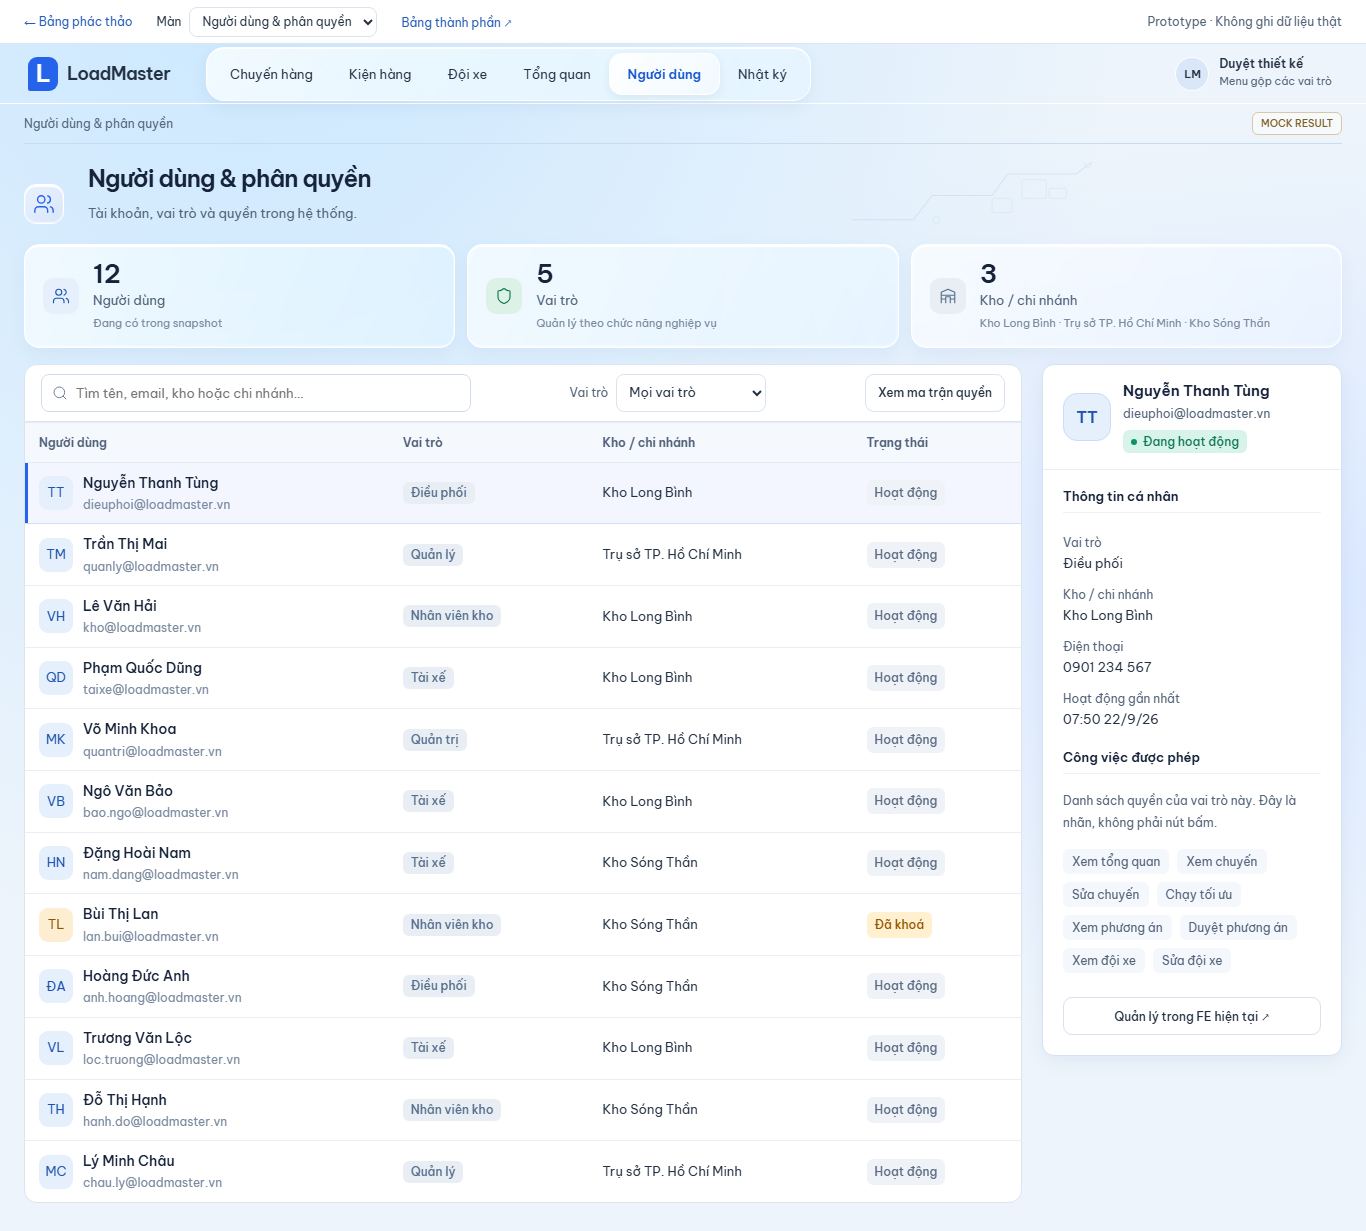
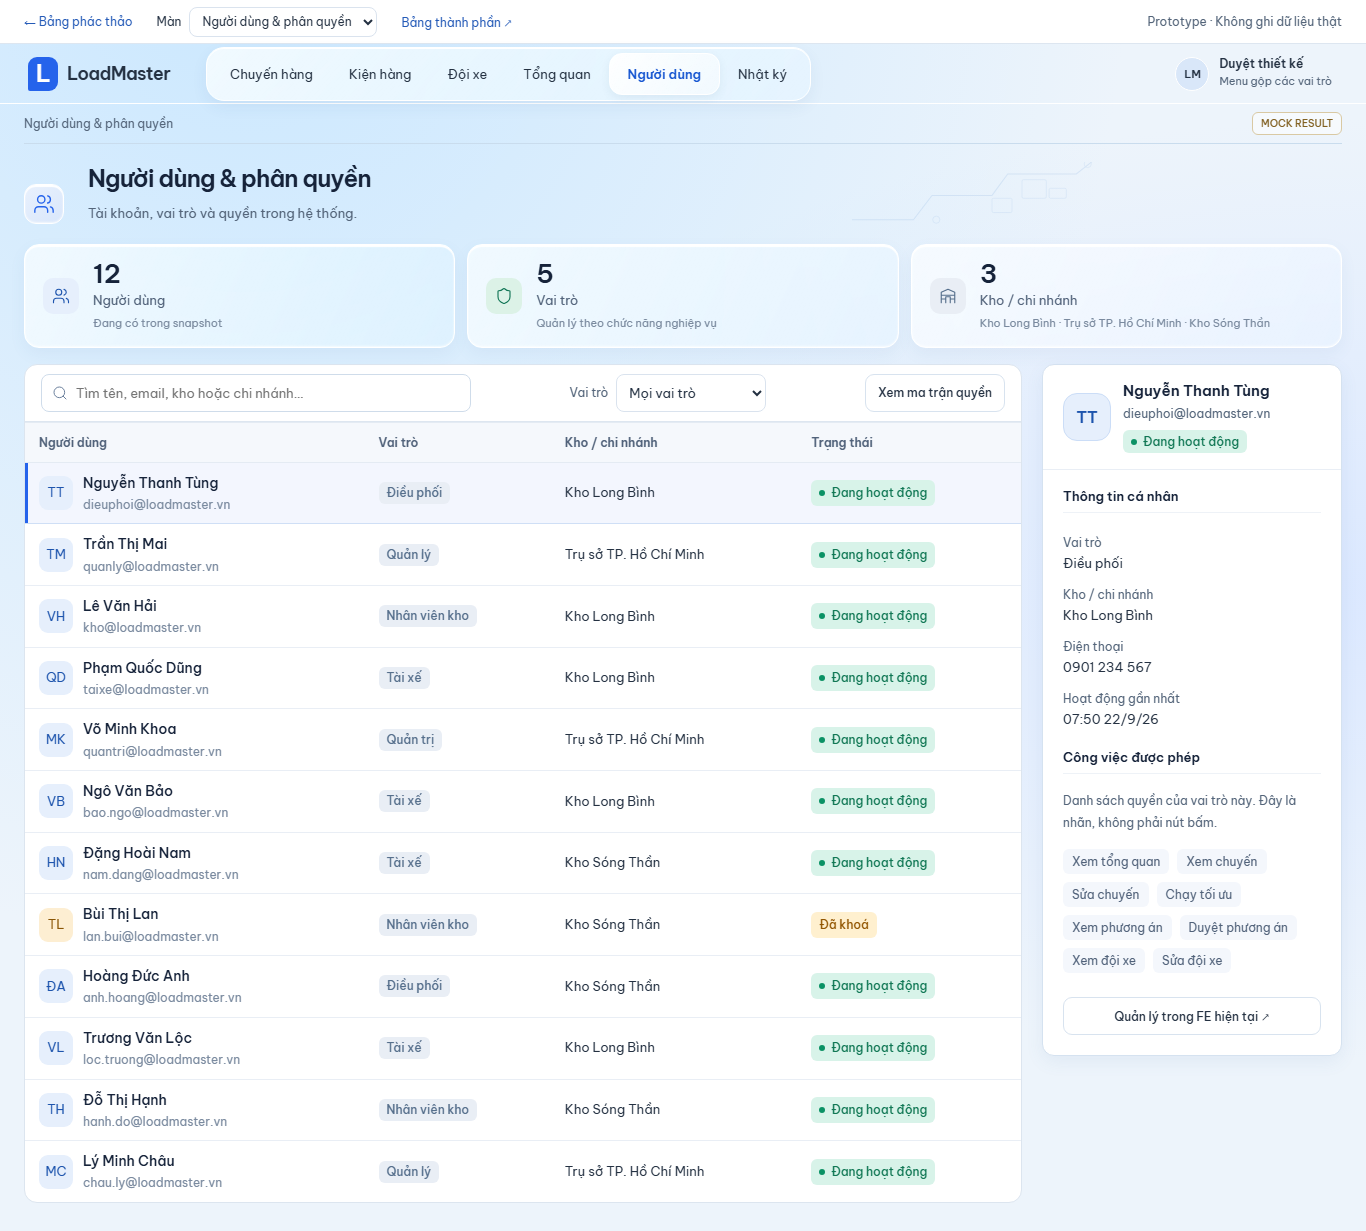
design(v2): một nguồn duy nhất cho trạng thái tài khoản
Bảng người dùng ghi "Hoạt động" tông neutral, còn inspector ghi "Đang
hoạt động" tông success — cùng một trạng thái, hai màu và hai cách gọi.
Người đọc phải tự đoán chúng có phải một hay không.

Gom về hàm userStatus dùng cho cả hai chỗ: "Đang hoạt động" tông
success, "Đã khoá" tông warning. Không thêm trạng thái mới, không đổi
nghĩa của tông nào.

verify-desktop, verify-screens và lint pass. Không đụng src/.

diff --git a/design/v2/desktop-admin.js b/design/v2/desktop-admin.js
@@ -5,12 +5,13 @@ const permissions = { 'dashboard.view':'Xem tổng quan','reports.export':'Xuấ
 // Nhóm sự kiện → tông icon. Bốn nhóm, không tô mỗi hành động một màu.
 const actionTone = { trip:['blue','truck'], revision:['violet','review'], optimization:['violet','settings'], loading:['amber','box'], delivery:['green','truck'], vehicle:['amber','wrench'], user:['slate','user'], auth:['slate','user'] };
 const actions = { 'trip.created':'Tạo chuyến','trip.updated':'Sửa chuyến','trip.cancelled':'Huỷ chuyến','optimization.saved':'Lưu kết quả tối ưu','revision.approved':'Duyệt phương án','loading.started':'Bắt đầu xếp hàng','loading.completed':'Xếp xong','loading.missing':'Báo thiếu kiện','delivery.started':'Xuất phát giao hàng','delivery.stopCompleted':'Hoàn tất điểm giao','delivery.completed':'Hoàn thành chuyến','delivery.issue':'Báo sự cố giao hàng','vehicle.maintenanceOn':'Đưa xe vào bảo dưỡng','user.created':'Tạo tài khoản','user.locked':'Khoá tài khoản','auth.signedIn':'Đăng nhập' };
+const userStatus = u => badge(u.status==='active'?'Đang hoạt động':'Đã khoá', u.status==='active'?'success':'warning');
 const initials = name => name.split(' ').slice(-2).map(w => w[0]).join('');
 export function users(){
   let selected=snapshot.users[0];
   $('screen-root').innerHTML=shell('users',metricGrid([{ tone:'blue', icon:'users', value:snapshot.users.length, label:'Người dùng', note:'Đang có trong snapshot' },{ tone:'green', icon:'shield', value:Object.keys(roleNames).length, label:'Vai trò', note:'Quản lý theo chức năng nghiệp vụ' },{ tone:'slate', icon:'fleet', value:new Set(snapshot.users.map(u=>u.depot)).size, label:'Kho / chi nhánh', note:[...new Set(snapshot.users.map(u=>u.depot))].join(' · ') }])+`<div class="workbench"><section class="paper"><div class="list-tools"><label class="search">${icon('search',16)}<input id="user-search" placeholder="Tìm tên, email, kho hoặc chi nhánh…" aria-label="Tìm người dùng"></label><label class="tool-field">Vai trò<select id="user-role" aria-label="Lọc vai trò"><option value="all">Mọi vai trò</option>${Object.entries(roleNames).map(([k,v])=>`<option value="${k}">${v}</option>`).join('')}</select></label><button class="button secondary" id="permissions-open">Xem ma trận quyền</button></div><div id="users-table"></div></section><aside class="editor-paper"><div id="user-inspector"></div></aside></div>${dialog('permissions-dialog','Ma trận quyền theo vai trò',table(['Quyền',...Object.values(roleNames)],snapshot.permissions.map(p=>`<tr><td>${permissions[p]}</td>${Object.keys(roleNames).map(role=>`<td><span aria-label="${snapshot.roles[role].includes(p)?'Có quyền':'Không có quyền'}">${snapshot.roles[role].includes(p)?'✓':'—'}</span></td>`).join('')}</tr>`).join(''))+notice('Phân quyền FE giả lập. Backend phải kiểm lại; prototype chỉ trình bày ma trận, không cấp quyền.'))}`);
-  function inspector(){const u=selected;$('user-inspector').innerHTML=`<div class="inspector-head"><span class="large-avatar">${initials(u.fullName)}</span><div><h2>${u.fullName}</h2><p class="quiet-note">${u.email}</p>${badge(u.status==='active'?'Đang hoạt động':'Đã khoá',u.status==='active'?'success':'warning')}</div></div><h3 class="inspector-section">Thông tin cá nhân</h3><dl class="definition-list"><div><dt>Vai trò</dt><dd>${roleNames[u.role]}</dd></div><div><dt>Kho / chi nhánh</dt><dd>${u.depot}</dd></div><div><dt>Điện thoại</dt><dd>${u.phone}</dd></div><div><dt>Hoạt động gần nhất</dt><dd>${u.lastActiveAt?dateTime(u.lastActiveAt):'Chưa đăng nhập'}</dd></div></dl><h3 class="inspector-section">Công việc được phép</h3><p class="quiet-note">Danh sách quyền của vai trò này. Đây là nhãn, không phải nút bấm.</p><ul class="permission-list">${snapshot.roles[u.role].map(p=>`<li>${permissions[p]}</li>`).join('')}</ul><a class="button secondary" href="/nguoi-dung">Quản lý trong FE hiện tại ↗</a>`;}
-  function render(){const rows=snapshot.users.filter(u=>normalize(u.fullName+' '+u.email+' '+u.depot).includes(normalize($('user-search').value))&&($('user-role').value==='all'||u.role===$('user-role').value));$('users-table').innerHTML=table(['Người dùng','Vai trò','Kho / chi nhánh','Trạng thái'],rows.map(u=>`<tr class="${u.id===selected.id?'selected-row':''}"><td><button class="cell-lead" data-user="${u.id}"><span class="cell-thumb ${u.status==='active'?'blue':'amber'}">${initials(u.fullName)}</span><span class="row-title">${u.fullName}<small>${u.email}</small></span></button></td><td><span class="role-chip">${roleNames[u.role]}</span></td><td>${u.depot}</td><td>${badge(u.status==='active'?'Hoạt động':'Đã khoá',u.status==='active'?'neutral':'warning')}</td></tr>`).join('')||'<tr><td colspan="4" class="empty">Không tìm thấy người dùng.</td></tr>');}
+  function inspector(){const u=selected;$('user-inspector').innerHTML=`<div class="inspector-head"><span class="large-avatar">${initials(u.fullName)}</span><div><h2>${u.fullName}</h2><p class="quiet-note">${u.email}</p>${userStatus(u)}</div></div><h3 class="inspector-section">Thông tin cá nhân</h3><dl class="definition-list"><div><dt>Vai trò</dt><dd>${roleNames[u.role]}</dd></div><div><dt>Kho / chi nhánh</dt><dd>${u.depot}</dd></div><div><dt>Điện thoại</dt><dd>${u.phone}</dd></div><div><dt>Hoạt động gần nhất</dt><dd>${u.lastActiveAt?dateTime(u.lastActiveAt):'Chưa đăng nhập'}</dd></div></dl><h3 class="inspector-section">Công việc được phép</h3><p class="quiet-note">Danh sách quyền của vai trò này. Đây là nhãn, không phải nút bấm.</p><ul class="permission-list">${snapshot.roles[u.role].map(p=>`<li>${permissions[p]}</li>`).join('')}</ul><a class="button secondary" href="/nguoi-dung">Quản lý trong FE hiện tại ↗</a>`;}
+  function render(){const rows=snapshot.users.filter(u=>normalize(u.fullName+' '+u.email+' '+u.depot).includes(normalize($('user-search').value))&&($('user-role').value==='all'||u.role===$('user-role').value));$('users-table').innerHTML=table(['Người dùng','Vai trò','Kho / chi nhánh','Trạng thái'],rows.map(u=>`<tr class="${u.id===selected.id?'selected-row':''}"><td><button class="cell-lead" data-user="${u.id}"><span class="cell-thumb ${u.status==='active'?'blue':'amber'}">${initials(u.fullName)}</span><span class="row-title">${u.fullName}<small>${u.email}</small></span></button></td><td><span class="role-chip">${roleNames[u.role]}</span></td><td>${u.depot}</td><td>${userStatus(u)}</td></tr>`).join('')||'<tr><td colspan="4" class="empty">Không tìm thấy người dùng.</td></tr>');}
   $('user-search').oninput=render;$('user-role').onchange=render;$('users-table').onclick=e=>{const b=e.target.closest('[data-user]');if(!b)return;selected=snapshot.users.find(u=>u.id===b.dataset.user);render();inspector();};$('permissions-open').onclick=()=> $('permissions-dialog').showModal();render();inspector();
 }
 export function audit(){
